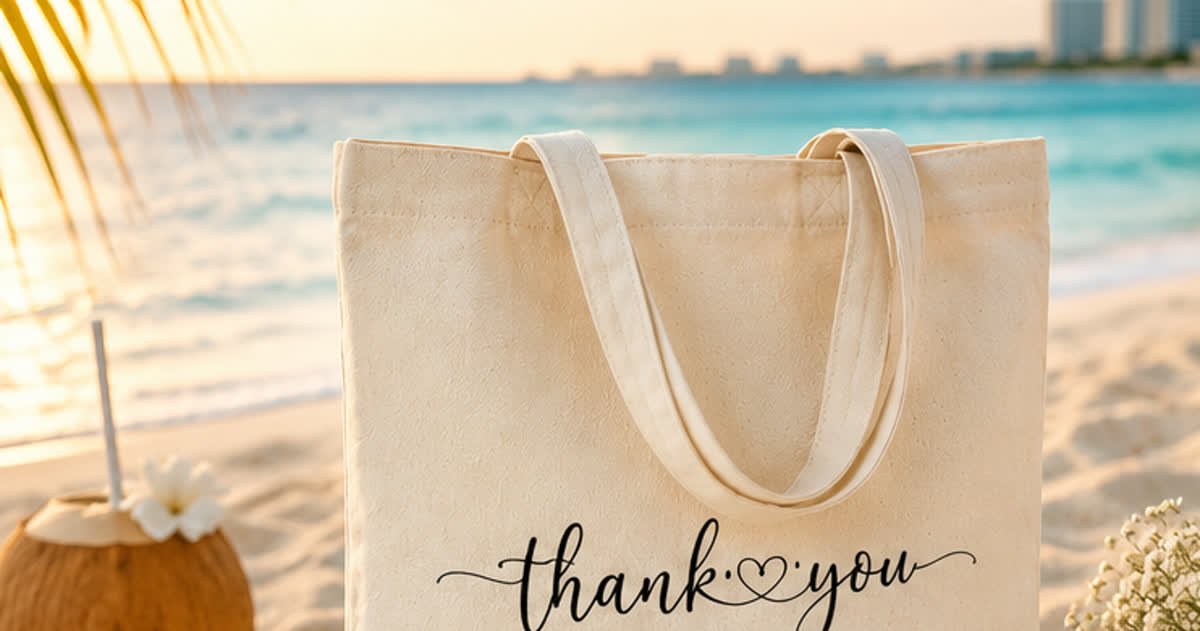
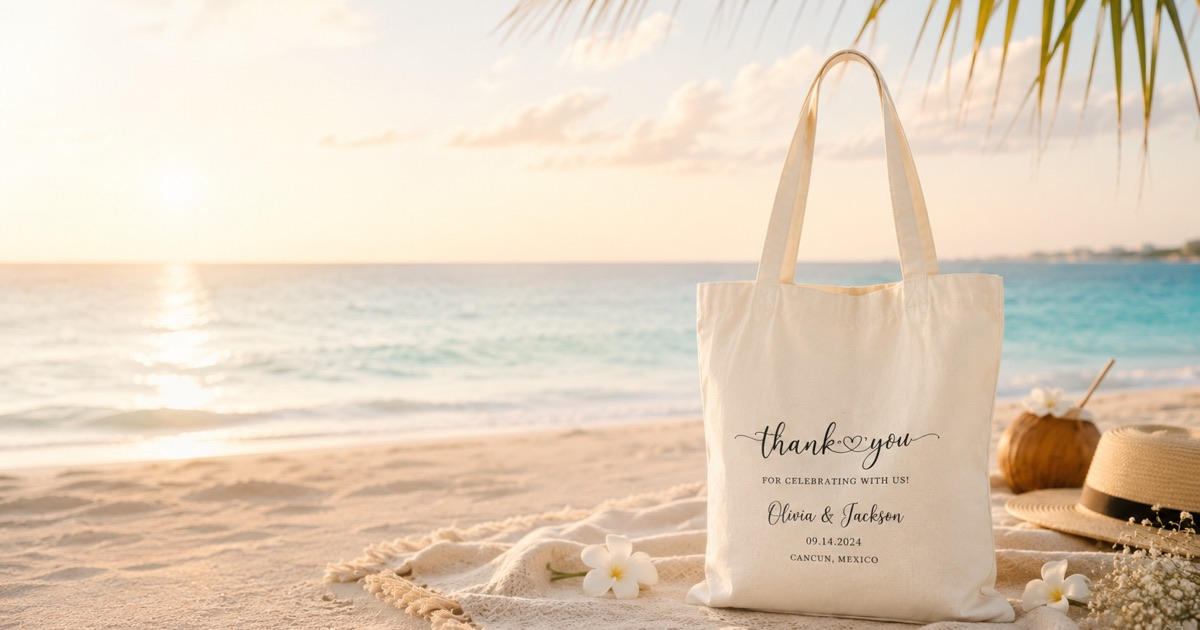
The parts of the site nobody looks at
Fonts come from our own origin. Two DNS lookups and a render-blocking
stylesheet from Google stood between a visitor and the first headline, on a
phone on hotel wifi, which is where this page is actually read. Astro
downloads the three faces at build time and preloads them.

A 404 that points somewhere. A wrong URL here is nearly always a stale link
out of a planner's old email, so the page does not apologise at length — it
names the three things anyone arriving was looking for.

The share card is the new photograph, and it is 1200x630 rather than the 631
the tag had been claiming. It still has no wordmark on it; that waits for a
logo to exist.

An apple-touch-icon, the two manifest icons and a manifest, so a saved tab is
not a blank sheet of paper.

Structured data grows a WebSite node and, on the pages that earn their way in
from search, their own: a breadcrumb on the venues and on planners, and a
Service per venue named for the hotel and priced at the tier a wedding that
size actually pays. `origin` moves into config so an @id minted on a venue
page points at the same studio as one minted on the home page.

The sitemap says when it changed and which pages matter.

And the wave was drawing nothing, anywhere, all along: the default colour
asked for var(--ochre) and the token is --c-ochre. An invalid var leaves the
stroke unset, so every one of the four waves on the site was an empty SVG.

diff --git a/src/styles/global.css b/src/styles/global.css
@@ -32,9 +32,12 @@
   --c-ink-body: #9eaaa4;
   --c-ink-faint: #93a09a;
 
-  /* --- Type --- */
-  --f-display: Newsreader, Georgia, 'Times New Roman', serif;
-  --f-body: Figtree, 'Helvetica Neue', Arial, sans-serif;
+  /* --- Type ---
+     --font-display and --font-body come from the fonts block in
+     astro.config.mjs, and already carry their own metric-matched fallbacks.
+     The literal stacks after them are the belt to that braces. */
+  --f-display: var(--font-display), Georgia, 'Times New Roman', serif;
+  --f-body: var(--font-body), 'Helvetica Neue', Arial, sans-serif;
 
   /* --- Layout ---
      The container caps at the design width so ultra-wide screens centre the

diff --git a/src/config.ts b/src/config.ts
@@ -19,6 +19,12 @@ export const site = {
     'Handmade wedding welcome bags for Cancún, Puerto Morelos, Playa del Carmen and Tulum. From $23 a bag delivered to your resort, no minimum and nothing through customs. See a drawing of yours the same day.',
 };
 
+/**
+ * The one place a schema.org `@id` is built from, so a node minted on a venue
+ * page points at the same studio as the node minted on the home page.
+ */
+export const origin = `https://${site.domain}`;
+
 /** Delivery area, in the order we drive it. */
 export const deliversTo = [
   'Puerto Morelos',
